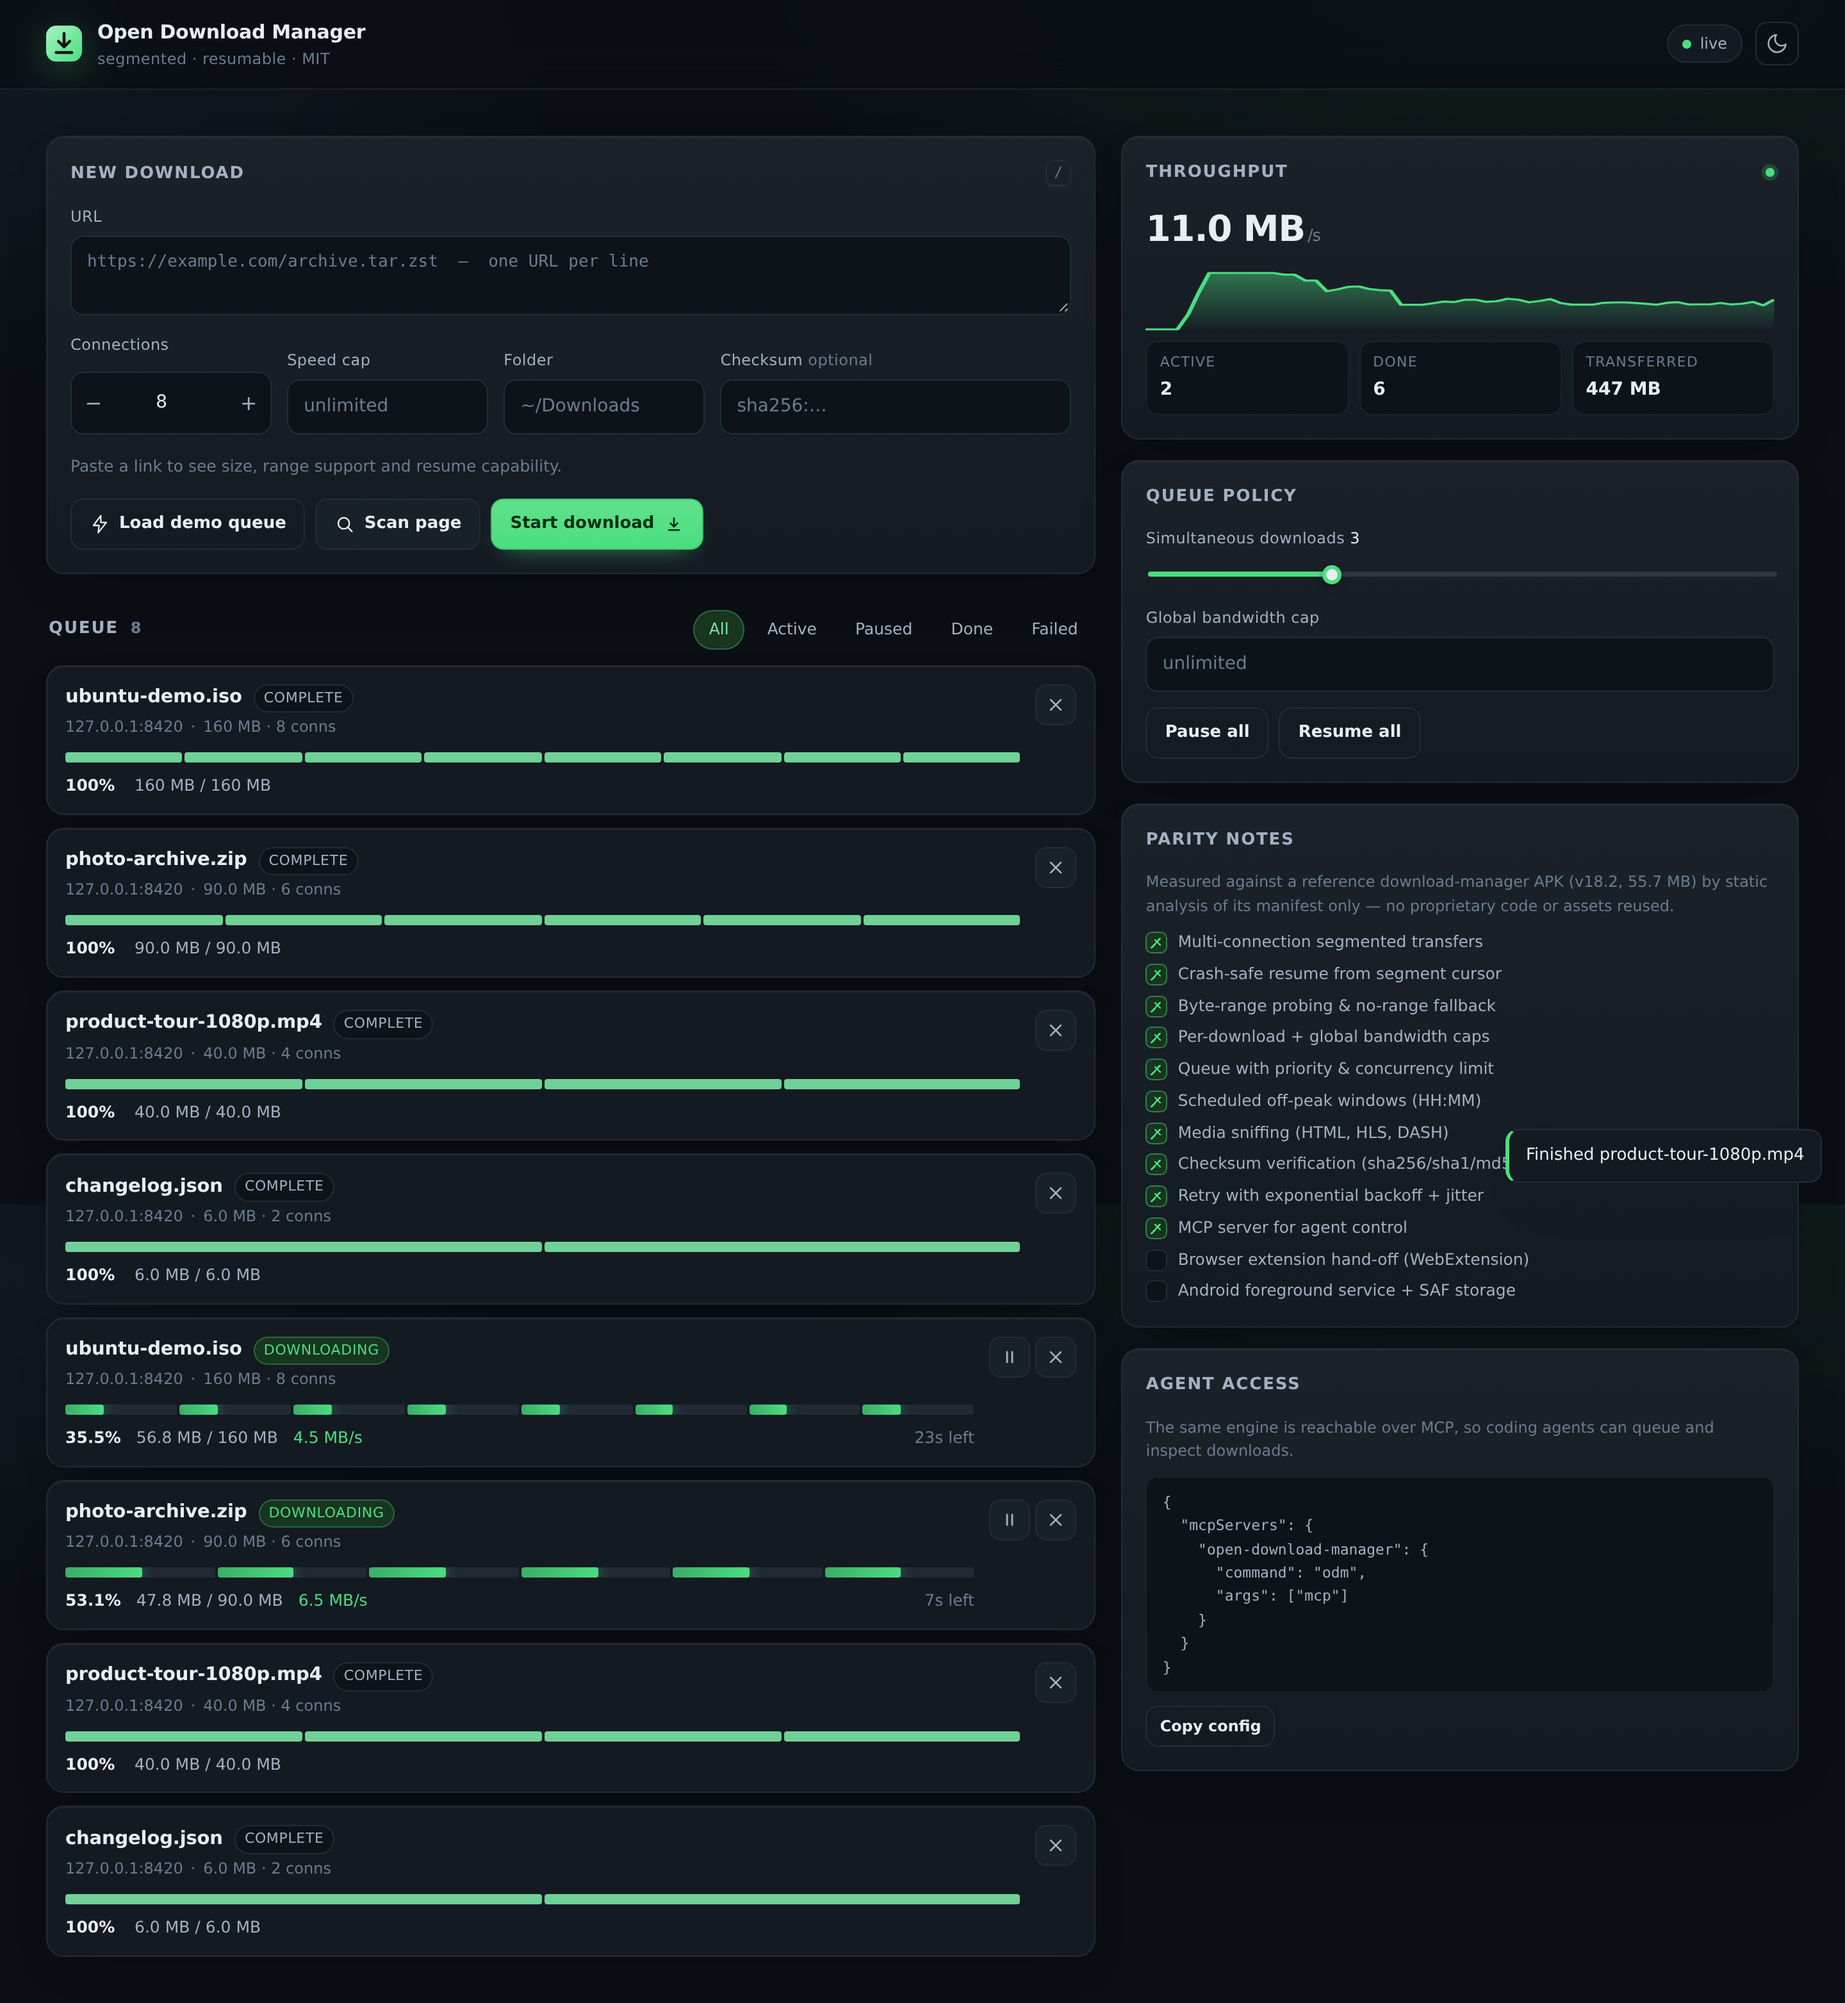
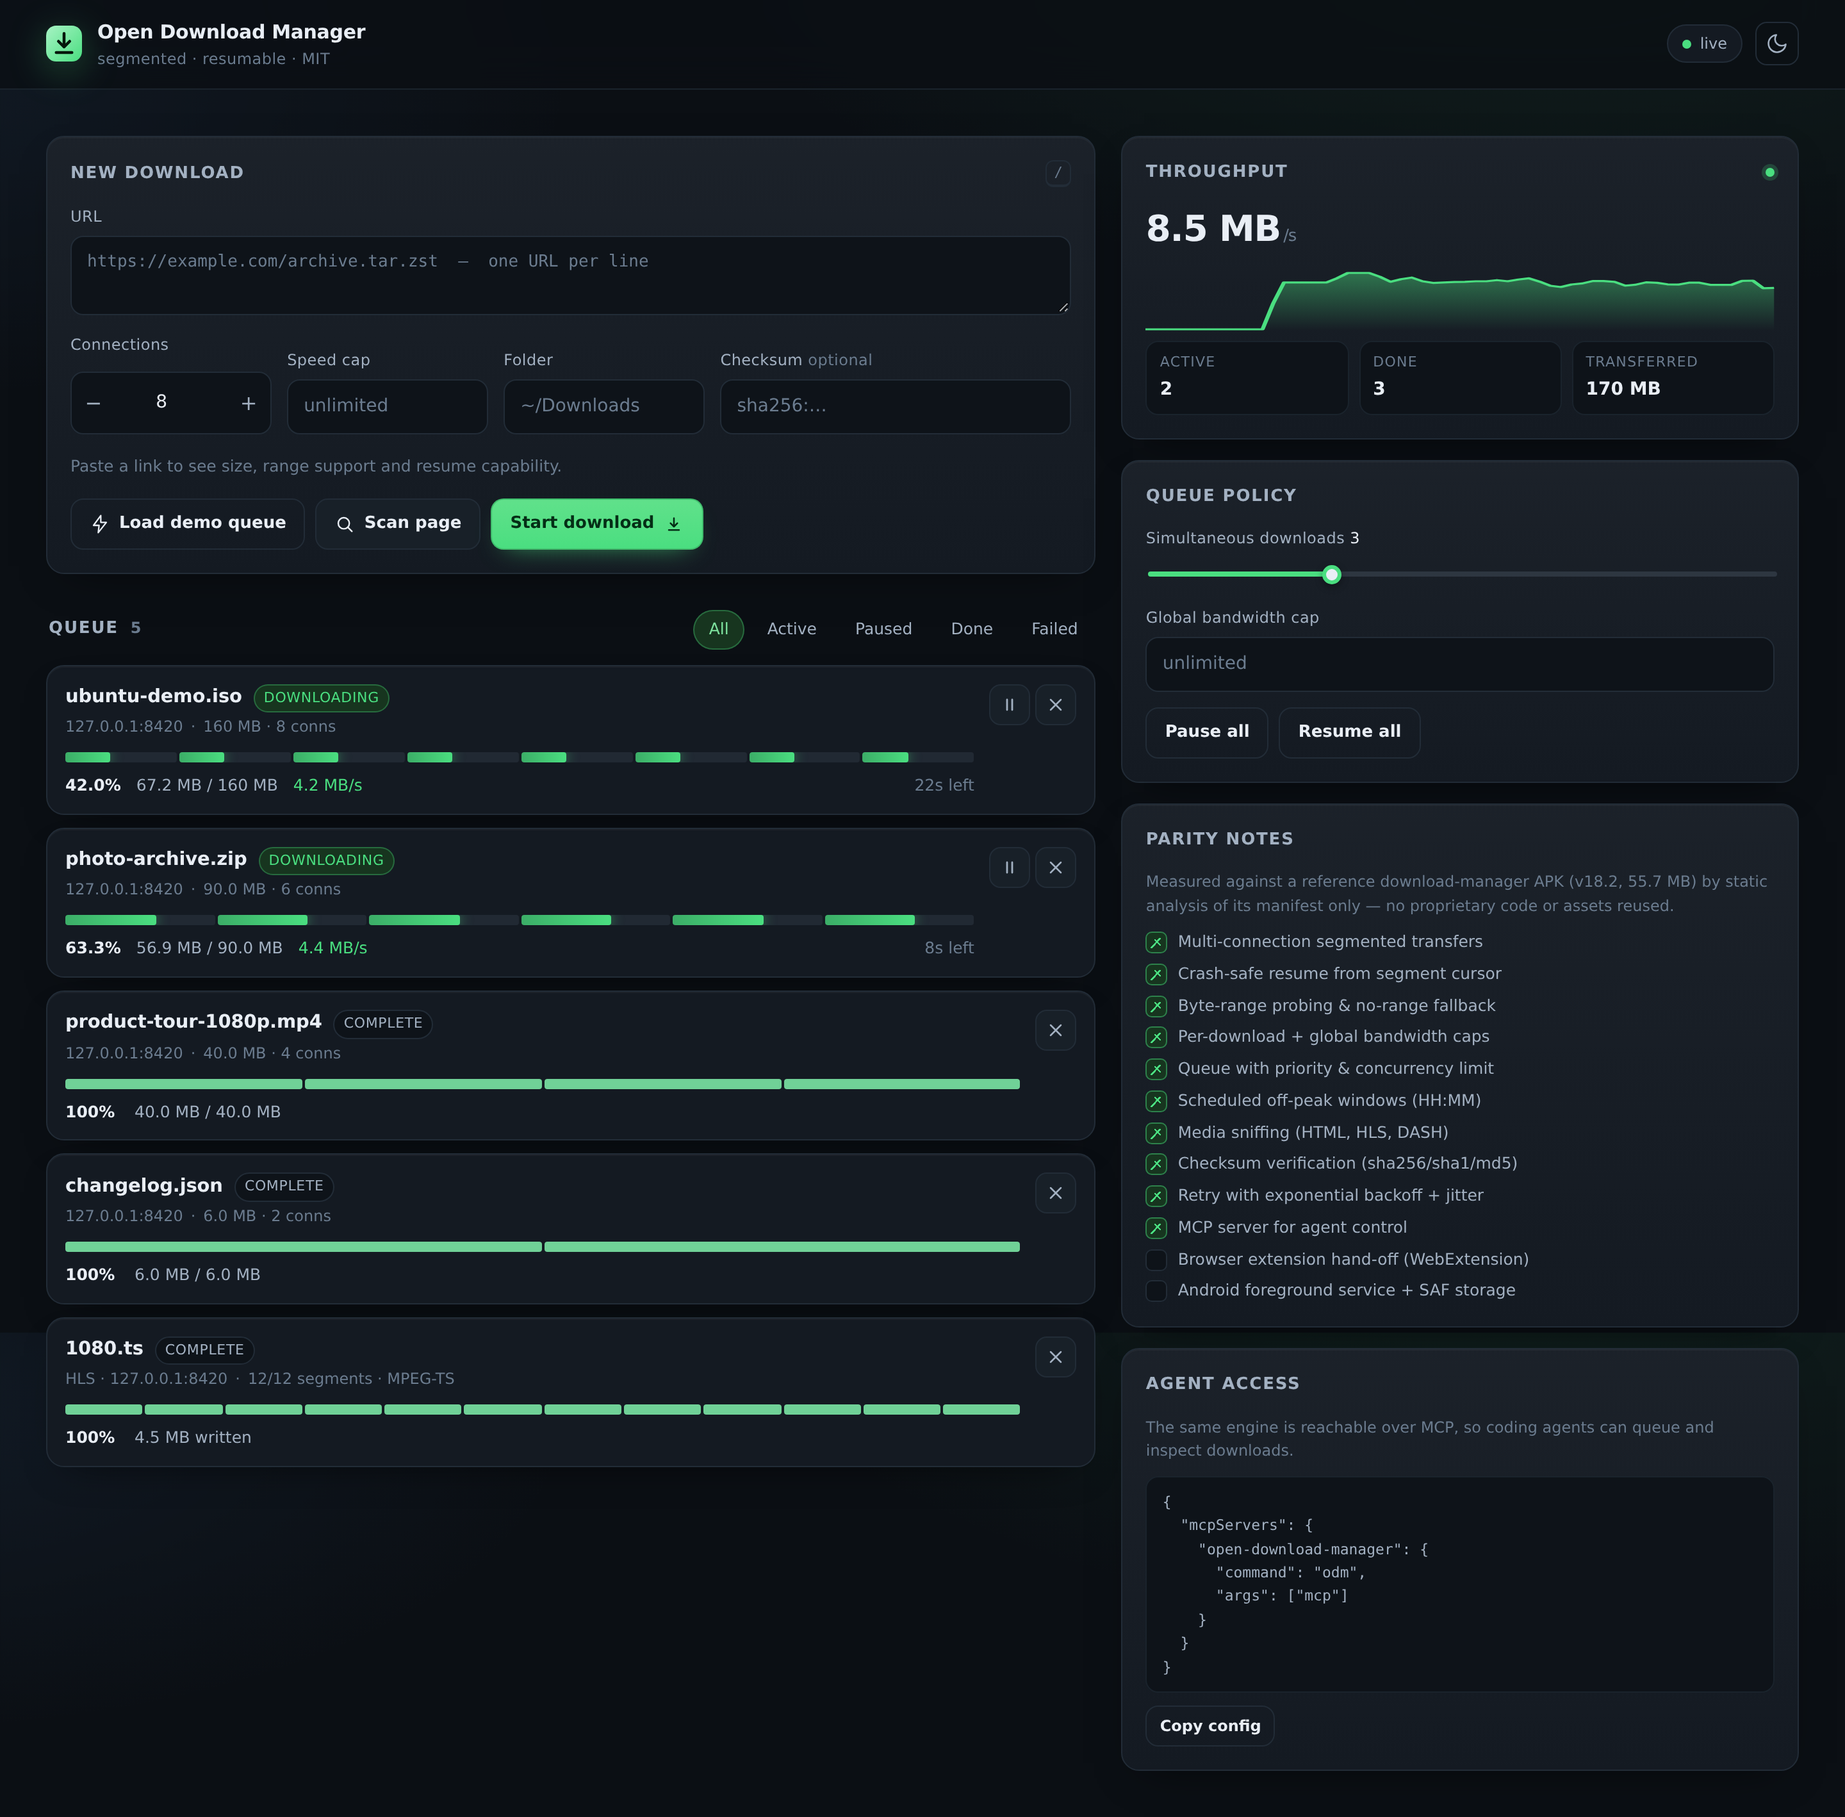
fix(demo): real HLS ladder for the demo server; refresh dashboard screenshot
The demo master playlist now points at 480p/1080p media playlists backed by
12 MPEG-TS parts, so the new stream row can be exercised end to end
(12/12 segments concatenated to 1080.ts).

diff --git a/apps/server/src/server.js b/apps/server/src/server.js
@@ -346,7 +346,29 @@ export async function createApp({ stateDir, downloadDir } = {}) {
 
     if (process.env.ODM_DEMO === '1' && path === '/demo/master.m3u8') {
       res.writeHead(200, { 'content-type': 'application/vnd.apple.mpegurl' });
-      return res.end('#EXTM3U\n#EXT-X-STREAM-INF:BANDWIDTH=900000,RESOLUTION=854x480\n/demo/file?mb=8&name=480p.mp4\n#EXT-X-STREAM-INF:BANDWIDTH=3200000,RESOLUTION=1920x1080\n/demo/file?mb=20&name=1080p.mp4\n');
+      return res.end(
+        '#EXTM3U\n' +
+          '#EXT-X-STREAM-INF:BANDWIDTH=900000,RESOLUTION=854x480\n/demo/hls/480.m3u8\n' +
+          '#EXT-X-STREAM-INF:BANDWIDTH=3200000,RESOLUTION=1920x1080\n/demo/hls/1080.m3u8\n',
+      );
+    }
+
+    if (process.env.ODM_DEMO === '1' && /^\/demo\/hls\/(480|1080)\.m3u8$/.test(path)) {
+      const height = path.includes('1080') ? 1080 : 480;
+      const count = height === 1080 ? 12 : 6;
+      const lines = ['#EXTM3U', '#EXT-X-VERSION:3', '#EXT-X-TARGETDURATION:4', '#EXT-X-PLAYLIST-TYPE:VOD'];
+      for (let i = 0; i < count; i += 1) lines.push('#EXTINF:4.0,', `/demo/hls/${height}-seg${i}.ts`);
+      lines.push('#EXT-X-ENDLIST');
+      res.writeHead(200, { 'content-type': 'application/vnd.apple.mpegurl' });
+      return res.end(lines.join('\n'));
+    }
+
+    if (process.env.ODM_DEMO === '1' && /^\/demo\/hls\/\d+-seg\d+\.ts$/.test(path)) {
+      // ~380 KB per part so a 1080p ladder takes a few seconds to assemble.
+      const part = Buffer.alloc(380 * 1024, path.charCodeAt(path.length - 5) + path.length);
+      res.writeHead(200, { 'content-type': 'video/mp2t', 'content-length': part.length });
+      if (req.method === 'HEAD') return res.end();
+      return setTimeout(() => res.end(part), 40);
     }
 
     if (process.env.ODM_DEMO === '1' && path === '/demo/seed' && method === 'POST') {
